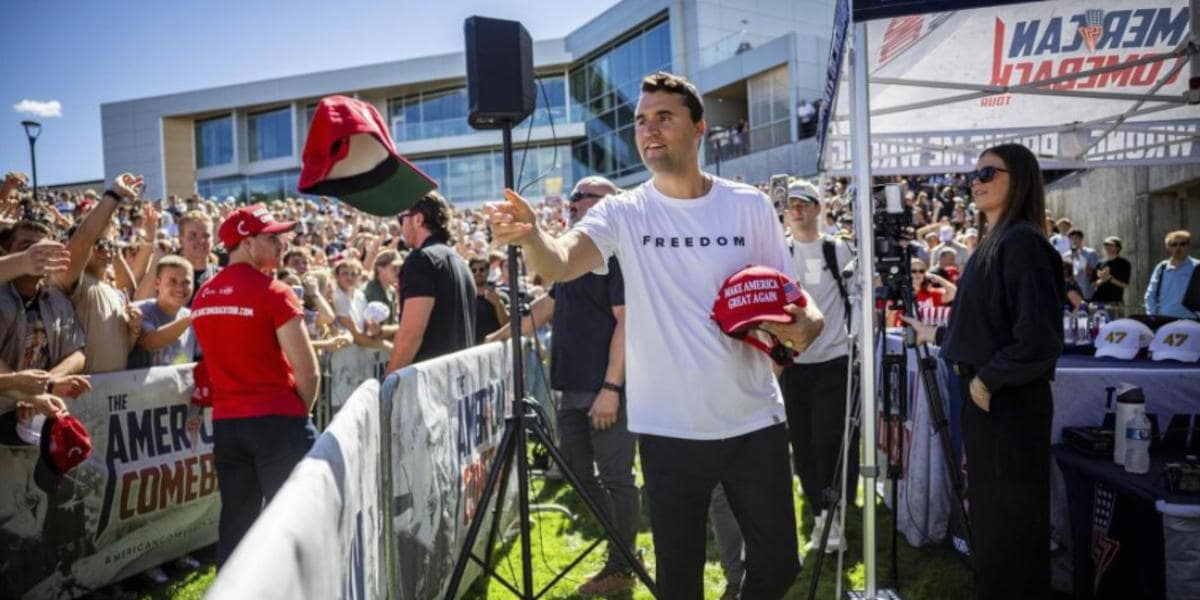
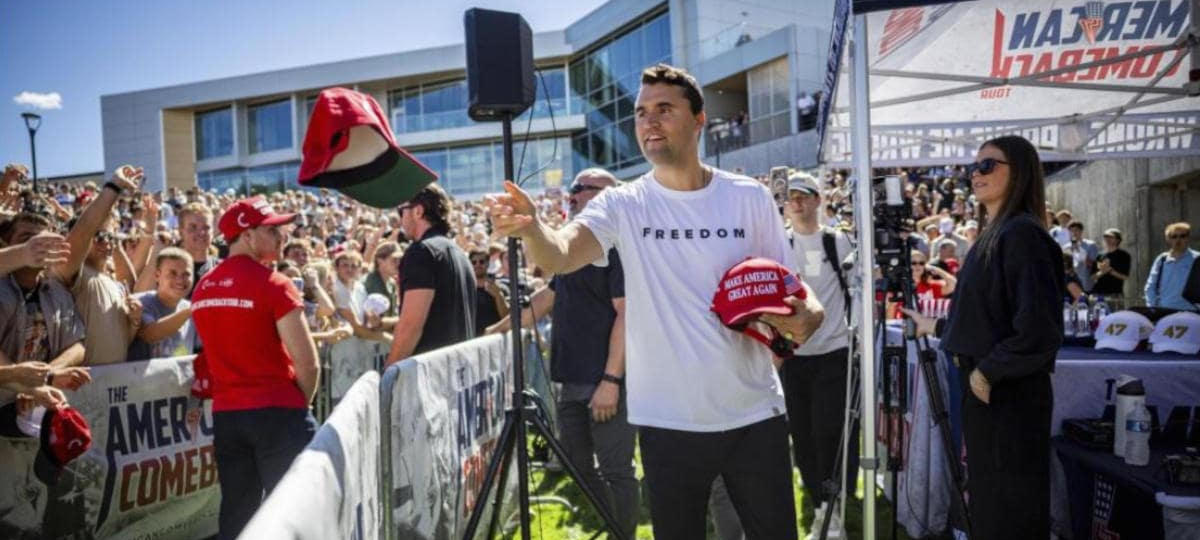
336-charlie-kirk-perche-era-cosi-odiato.md: 5th edt., p.7

diff --git a/html/336-charlie-kirk-perche-era-cosi-odiato.html b/html/336-charlie-kirk-perche-era-cosi-odiato.html
@@ -18,11 +18,11 @@
 <style>#printlink { display: inline; } @page { size: legal; margin: 0.50in 13.88mm 0.50in 13.88mm; zoom: 100%; } @media print { html { zoom: 100%; } }</style>
 <p class='topbar'></p>
 <div class='topbar' width='800px' translate='no'><b id='menu' onClick='nextStylesheet()'>&thinsp;&#9783;&thinsp;&Ropf;</b> &thinsp;&mdash;&thinsp; &#8543;&#8239;release: <b class='topbar'>2025-09-12&nbsp;<sup class='date-type topbar' id='datenote'>(&hairsp;<a href='#date-legenda' class='date-type topbar'>1</a>&hairsp;)</sup></b>  &thinsp;&mdash;&thinsp; rev.: <b class='topbar
-'>46</b rev_num='
+'>47</b rev_num='
 '> &thinsp;&mdash;&thinsp; transl.:&nbsp; <a class='topbar' href='https://robang74-github-io.translate.goog/roberto-a-foglietta/html/336-charlie-kirk-perche-era-cosi-odiato?_x_tr_sl=it&_x_tr_tl=en&_x_tr_hl=en-EN&_x_tr_pto=wapp' target='_blank' rel='noopener noreferrer'>EN</a> &nbsp;<b>&middot;</b>&nbsp; <a class='topbar' href='https://robang74-github-io.translate.goog/roberto-a-foglietta/html/336-charlie-kirk-perche-era-cosi-odiato?_x_tr_sl=it&_x_tr_tl=de&_x_tr_hl=de-DE&_x_tr_pto=wapp' target='_blank' rel='noopener noreferrer'>DE</a> &nbsp;<b>&middot;</b>&nbsp; <a class='topbar' href='https://robang74-github-io.translate.goog/roberto-a-foglietta/html/336-charlie-kirk-perche-era-cosi-odiato?_x_tr_sl=it&_x_tr_tl=fr&_x_tr_hl=fr-FR&_x_tr_pto=wapp' target='_blank' rel='noopener noreferrer'>FR</a> &nbsp;<b>&middot;</b>&nbsp; <a class='topbar' href='https://robang74-github-io.translate.goog/roberto-a-foglietta/html/336-charlie-kirk-perche-era-cosi-odiato?_x_tr_sl=it&_x_tr_tl=es&_x_tr_hl=es-ES&_x_tr_pto=wapp' target='_blank' rel='noopener noreferrer'>ES</a> &thinsp;&mdash;&thinsp; goto:&nbsp; <a class='topbar' href='../index.html#index'>.&#x27F0;.</a> &nbsp;<b>&middot;</b>&nbsp; <a class='topbar' href='../../chatbots-for-fun/index.html'target=_blank>C4F</a> &nbsp;<b>&middot;</b>&nbsp; <a class='topbar' href='../../chatgpt-answered-prompts/index.html'target=_blank>Q&A</a> <span id='printlink'>&thinsp;&mdash;&thinsp; <b>⎙</b>&hairsp;: <a aria-label='print this page' class='topbar' href='javascript:window.print()'>PDF</a></span>&nbsp;</div>
 <div id="firstdiv">
 <p class='topbar'></p>
-<div align="center"><img class="bwsketch" src="../img/336-charlie-kirk-perche-era-cosi-odiato-img-001.jpg"><br/></div>
+<div align="center"><img class="bwsketch" src="../img/336-charlie-kirk-perche-era-cosi-odiato-img-001.jpg" width="800"><br/></div>
 <p></p>
 <H2 id="charlie-kirk-perch-era-cos-odiato">Charlie Kirk, perché era così odiato?</H2>
 <p></p>
@@ -46,7 +46,7 @@ Nella teoria della comunicazione c'è la regola d'oro del 3.5%. Se un'opinione o
 <p></p>
 Se qualcuno facesse il <a href="#cherry-picking">cherry-picking</a> delle nostre affermazioni, estratte dal contesto in cui sono state dette, penso che ognuno di noi potrebbe essere considerato malvagio o santo a seconda di chi fa questa selezione. Questo è un altro punto a vantaggio del modello comunicativo di Kirk che permetteva il dibattito.
 <p></p>
-<hr>
+<div class="pagebreak"><hr></div>
 <p></p>
 <H3 id="il-format-di-comunicazione-e-dibattito">Il format di comunicazione e dibattito</H3>
 <p></p>
@@ -152,11 +152,14 @@ Kirk was aware that the Universities were indoctrinating students instead of edu
 <p></p>
 Feeding this content above to Google Gemini clearly <a href="https://g.co/gemini/share/d996b82f7df2" target='_blank' rel='noopener noreferrer'>shows</a> how far we went: no debate, but censoring. After all, it is pretty clear that the main goal of Medicine is to cure those in need, not to pollute the society of mad clowns just to insanely spoil them by selling drugs for their life-long. Under this perspective, there is no debate but common sense vs a harmful ideology.
 <p></p>
+It is worth noting that all of this has nothing to do with sex preference, or dressing habits. Not even with people who are really in need of those treatments because of congenital anomalies or physical acquired dysfunctions. It is about enforcing deontology on those "doctors" who are doing or supporting practices because they are selling drugs as they were drugs dealers which bring harmful consequences to individuals and society. Ippocrate docet.
+<p></p>
 Back to Kirk as a truth seeker, once he realised that "I known to do not know" and "faith is an indoctrination if theology is needed to understand it", he was just a ticking bombs going around at top level aiming to find out that the scam-schema was <b>way</b> bigger than university courses costs and <b>way</b> deeper than gender-fluid trend. Thus the ultimate Kirk's challenge was which event would have happened first: Kirk found out the truth versus Kirk put in condition of not speaking out.
 <p></p>
 <br>
 <p></p>
 <span id="2nd-edition"></span>
+<div class="printonly"><p><br></p></div>
 <H2 id="charlie-kirk-perch-era-cos-amato">Charlie Kirk, perché era così amato?</H2>
 <p></p>
 Molti dei detrattori di Kirk affermano che le sue opinioni erano "divisive" e questo fa in modo che alcuni lo odiassero e altri lo amassero? In effetti, no. Per comprenderlo basta notare un paio di fatti.
@@ -286,6 +289,7 @@ Confusion does not lead to crimes or offences to God &mdash; which it would like
 <p></p>
 <br>
 <p></p>
+<div class="printonly"><p><br></p><p><br></p><p><br></p><p><br></p></div>
 <H2 id="charlie-kirk-and-his-relationship-with-israel">Charlie Kirk and his relationship with Israel</H2>
 <p></p>
 Also his relationship with Israel seems affected by a kind of confusion which he was trying to clear. In hindsight, given his death, we can say that it was a desperate undertaking, even considering the confusion surrounding the relationship between Christianity and the Old Testament.
@@ -305,7 +309,7 @@ Unsurprisingly, the All Israel News' staff is aware that "Jesus <b>and</b> the B
 <p></p>
 <li>September 11, 2025 &mdash; Lion-hearted friend of Israel Charlie Kirk's support for Israel was motivated by his love for Jesus <b>and</b> the Bible &mdash; <a href="https://allisraelnews.com/a-lion-hearted-friend-of-israel-charlie-kirks-support-for-israel-was-motivated-by-his-love-for-jesus-and-the-bible" target='_blank' rel='noopener noreferrer'>All Israel News</a></li>
 <p></p>
-<div align="center"><img class="bwsketch" src="../img/336-charlie-kirk-perche-era-cosi-odiato-img-002.jpg"><br/></div>
+<div align="center"><img class="bwsketch" src="../img/336-charlie-kirk-perche-era-cosi-odiato-img-002.jpg" width="720"><br/></div>
 <p></p>
 Once acquired these new information, I decided to add for consultation the current evaluation of an additional potential source of information which could be a turning key (possibly a Kremlin assist to solve the Kirk death, and also pushing Trump in an embarrassing position) but also a Troy horse aiming to prehmply re-orient the public opinion towards a wrong direction.
 <p></p>

diff --git a/336-charlie-kirk-perche-era-cosi-odiato.md b/336-charlie-kirk-perche-era-cosi-odiato.md
@@ -1,7 +1,7 @@
 <div id="firstdiv" created="2025-09-12:IT:" style="max-width: 800px; margin: auto; white-space: pre-wrap; text-align: justify;">
 <style>#printlink { display: inline; } @page { size: legal; margin: 0.50in 13.88mm 0.50in 13.88mm; zoom: 100%; } @media print { html { zoom: 100%; } }</style>
 
-<div align="center"><img class="bwsketch" src="img/336-charlie-kirk-perche-era-cosi-odiato-img-001.jpg"><br/></div>
+<div align="center"><img class="bwsketch" src="img/336-charlie-kirk-perche-era-cosi-odiato-img-001.jpg" width="800"><br/></div>
 
 ## Charlie Kirk, perché era così odiato?
 
@@ -25,7 +25,7 @@ Nella teoria della comunicazione c'è la regola d'oro del 3.5%. Se un'opinione o
 
 Se qualcuno facesse il [cherry-picking](#cherry-picking) delle nostre affermazioni, estratte dal contesto in cui sono state dette, penso che ognuno di noi potrebbe essere considerato malvagio o santo a seconda di chi fa questa selezione. Questo è un altro punto a vantaggio del modello comunicativo di Kirk che permetteva il dibattito.
 
----
+----
 
 ### Il format di comunicazione e dibattito
 
@@ -133,11 +133,14 @@ Kirk was aware that the Universities were indoctrinating students instead of edu
 
 Feeding this content above to Google Gemini clearly [shows](https://g.co/gemini/share/d996b82f7df2) how far we went: no debate, but censoring. After all, it is pretty clear that the main goal of Medicine is to cure those in need, not to pollute the society of mad clowns just to insanely spoil them by selling drugs for their life-long. Under this perspective, there is no debate but common sense vs a harmful ideology.
 
+It is worth noting that all of this has nothing to do with sex preference, or dressing habits. Not even with people who are really in need of those treatments because of congenital anomalies or physical acquired dysfunctions. It is about enforcing deontology on those "doctors" who are doing or supporting practices because they are selling drugs as they were drugs dealers which bring harmful consequences to individuals and society. Ippocrate docet.
+
 Back to Kirk as a truth seeker, once he realised that "I known to do not know" and "faith is an indoctrination if theology is needed to understand it", he was just a ticking bombs going around at top level aiming to find out that the scam-schema was **way** bigger than university courses costs and **way** deeper than gender-fluid trend. Thus the ultimate Kirk's challenge was which event would have happened first: Kirk found out the truth versus Kirk put in condition of not speaking out.
 
 +
 
 <span id="2nd-edition"></span>
+<div class="printonly"><p><br></p></div>
 ## Charlie Kirk, perché era così amato?
 
 Molti dei detrattori di Kirk affermano che le sue opinioni erano "divisive" e questo fa in modo che alcuni lo odiassero e altri lo amassero? In effetti, no. Per comprenderlo basta notare un paio di fatti.
@@ -269,6 +272,7 @@ Confusion does not lead to crimes or offences to God -- which it would like we, 
 
 +
 
+<div class="printonly"><p><br></p><p><br></p><p><br></p><p><br></p></div>
 ## Charlie Kirk and his relationship with Israel
 
 Also his relationship with Israel seems affected by a kind of confusion which he was trying to clear. In hindsight, given his death, we can say that it was a desperate undertaking, even considering the confusion surrounding the relationship between Christianity and the Old Testament.
@@ -288,7 +292,7 @@ Unsurprisingly, the All Israel News' staff is aware that "Jesus **and** the Bibl
 
 - September 11, 2025 -- Lion-hearted friend of Israel Charlie Kirk's support for Israel was motivated by his love for Jesus **and** the Bible -- [All Israel News](https://allisraelnews.com/a-lion-hearted-friend-of-israel-charlie-kirks-support-for-israel-was-motivated-by-his-love-for-jesus-and-the-bible)
 
-<div align="center"><img class="bwsketch" src="img/336-charlie-kirk-perche-era-cosi-odiato-img-002.jpg"><br/></div>
+<div align="center"><img class="bwsketch" src="img/336-charlie-kirk-perche-era-cosi-odiato-img-002.jpg" width="720"><br/></div>
 
 Once acquired these new information, I decided to add for consultation the current evaluation of an additional potential source of information which could be a turning key (possibly a Kremlin assist to solve the Kirk death, and also pushing Trump in an embarrassing position) but also a Troy horse aiming to prehmply re-orient the public opinion towards a wrong direction.
 
